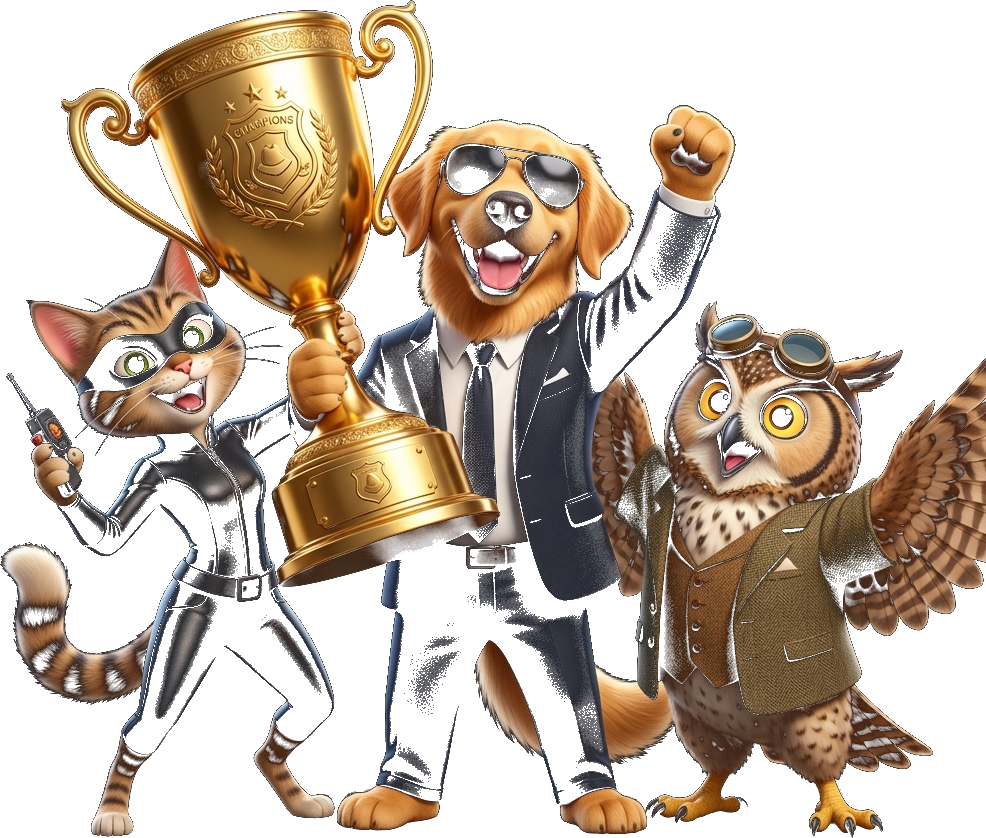
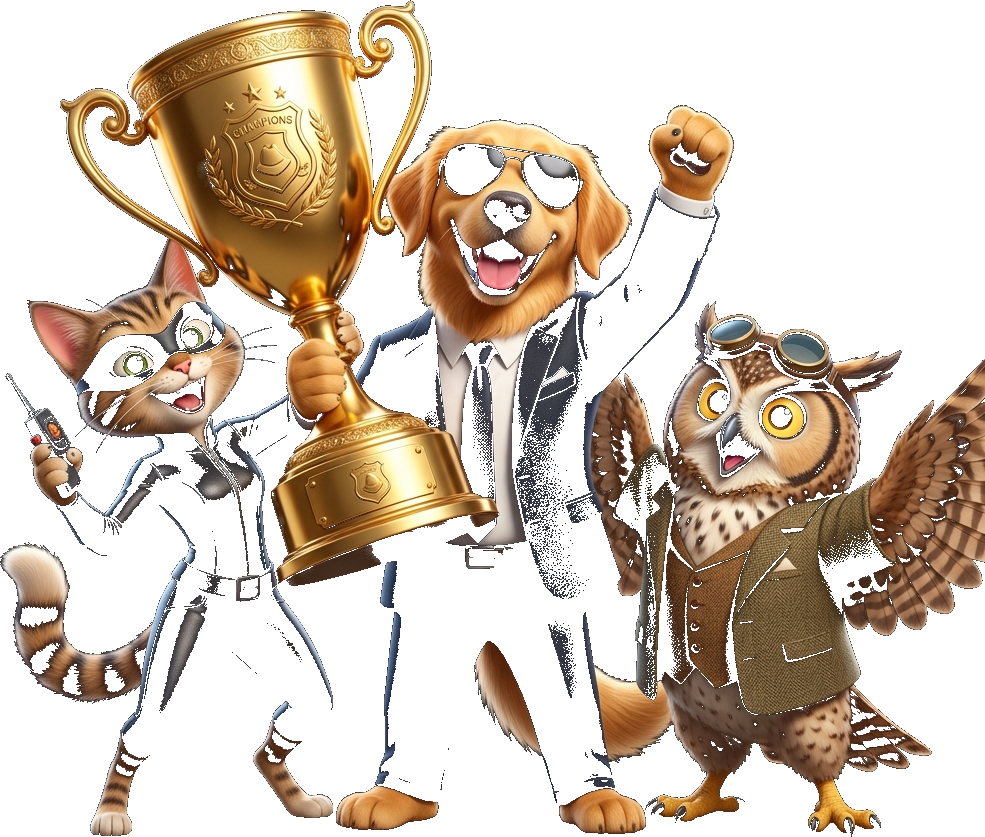
fix(ui): remove dark background square from victory image, remove scrollbar arrows, enlarge scoreboard table

diff --git a/src/components/Scoreboard.jsx b/src/components/Scoreboard.jsx
@@ -20,7 +20,7 @@ const Scoreboard = ({ players, winners, onReplay, onHome, onOpenSettings }) => {
     const winningColor = isCivilianWin ? 'text-spy-lime' : 'text-spy-orange';
 
     return (
-        <div className="min-h-screen min-h-[100dvh] flex flex-col items-center justify-between p-4 md:p-6 pt-16 md:pt-20 bg-transparent relative overflow-x-hidden max-w-md mx-auto">
+        <div className="min-h-screen min-h-[100dvh] flex flex-col items-center justify-between p-4 md:p-6 pt-14 md:pt-16 bg-transparent relative overflow-x-hidden max-w-xl mx-auto w-full">
             <SettingsGear onClick={onOpenSettings} />
 
             {/* Background Decor */}
@@ -31,57 +31,57 @@ const Scoreboard = ({ players, winners, onReplay, onHome, onOpenSettings }) => {
             <div className="z-10 w-full animate-pop-in flex flex-col flex-1 pb-4 overflow-hidden">
 
                 {/* 3D Cutout Victory / Defeat Hero Character */}
-                <div className="relative w-full h-48 flex items-center justify-center mb-1 flex-shrink-0">
-                    <div className={`absolute inset-4 rounded-full blur-2xl opacity-40 pointer-events-none ${
+                <div className="relative w-full h-56 flex items-center justify-center mb-1 flex-shrink-0">
+                    <div className={`absolute inset-4 rounded-full blur-3xl opacity-50 pointer-events-none ${
                         isCivilianWin ? 'bg-spy-lime' : 'bg-spy-orange'
                     }`} />
                     <img 
                         src={isCivilianWin ? '/victory_civilians_cutout_3d.png' : '/victory_impostors_cutout_3d.png'} 
                         alt={winningTeamText} 
-                        className="w-full h-full object-contain filter drop-shadow-[0_15px_25px_rgba(0,0,0,0.9)] z-10 transform hover:scale-105 transition-transform duration-300" 
+                        className="w-full h-full object-contain filter drop-shadow-[0_20px_30px_rgba(0,0,0,0.95)] z-10 transform hover:scale-105 transition-transform duration-300" 
                     />
                 </div>
 
                 {/* Header Title */}
                 <div className="text-center mb-4 flex-shrink-0">
-                    <h1 className="text-xl md:text-2xl font-black text-white uppercase tracking-tighter drop-shadow-lg mb-1">
-                        Victoire pour <span className={`${winningColor} text-2xl md:text-3xl font-black`}>{winningTeamText} !</span>
+                    <h1 className="text-2xl md:text-3xl font-black text-white uppercase tracking-tighter drop-shadow-lg mb-1">
+                        Victoire pour <span className={`${winningColor} text-3xl md:text-4xl font-black`}>{winningTeamText} !</span>
                     </h1>
-                    <div className="w-16 h-1 bg-spy-lime mx-auto rounded-full border border-black shadow-[1px_1px_0_#000]"></div>
+                    <div className="w-20 h-1.5 bg-spy-lime mx-auto rounded-full border border-black shadow-[1px_1px_0_#000]"></div>
                 </div>
 
-                {/* Scoreboard Scrollable List */}
-                <div className="card-cartoon p-3.5 flex-1 overflow-y-auto mb-4 bg-black/45 text-white border-3 border-black max-h-[340px] shadow-2xl">
-                    <h2 className="text-white/40 font-black uppercase tracking-widest text-[9.5px] text-center mb-3 sticky top-0 bg-black/80 backdrop-blur-md p-1.5 rounded-xl z-10 border border-white/10">
+                {/* Scoreboard Scrollable List - Sleek & Roomy */}
+                <div className="card-cartoon p-4 flex-1 overflow-y-auto mb-4 bg-black/60 backdrop-blur-md text-white border-3 border-black shadow-2xl max-h-[420px] custom-scrollbar">
+                    <h2 className="text-white/50 font-black uppercase tracking-[0.25em] text-[10px] text-center mb-3 sticky top-0 bg-slate-900/90 backdrop-blur-md p-2 rounded-xl z-10 border border-white/10 shadow-md">
                         Classement de la Mission
                     </h2>
 
-                    <div className="space-y-2.5">
+                    <div className="space-y-3">
                         {sortedPlayers.map((player, index) => {
                             const rawAvatar = typeof player.avatar === 'object' ? player.avatar?.value : player.avatar;
                             return (
                                 <div
                                     key={player.id}
-                                    className={`flex items-center justify-between rounded-2xl p-2.5 border-2 transition-all ${
-                                        index === 0 ? 'bg-gradient-to-r from-yellow-500/20 via-yellow-500/10 to-transparent border-yellow-500/60 shadow-[0_4px_12px_rgba(234,179,8,0.25)]' :
-                                        index === 1 ? 'bg-slate-300/10 border-slate-300/40' :
-                                        index === 2 ? 'bg-amber-600/10 border-amber-600/40' :
-                                        'bg-black/30 border-white/10'
+                                    className={`flex items-center justify-between rounded-2xl p-3 border-2 transition-all ${
+                                        index === 0 ? 'bg-gradient-to-r from-yellow-500/25 via-yellow-500/10 to-slate-900/80 border-yellow-500/70 shadow-[0_4px_16px_rgba(234,179,8,0.3)]' :
+                                        index === 1 ? 'bg-slate-800/80 border-slate-300/40' :
+                                        index === 2 ? 'bg-slate-800/80 border-amber-600/40' :
+                                        'bg-slate-900/60 border-white/10'
                                     }`}
                                 >
-                                    <div className="flex items-center gap-2.5 min-w-0">
-                                        <div className="w-6 h-6 flex items-center justify-center flex-shrink-0 font-black text-xs">
+                                    <div className="flex items-center gap-3 min-w-0">
+                                        <div className="w-7 h-7 flex items-center justify-center flex-shrink-0 font-black text-sm">
                                             {renderRankBadge(index)}
                                         </div>
-                                        <div className="w-9 h-9 flex-shrink-0">
+                                        <div className="w-10 h-10 flex-shrink-0">
                                             <CartoonAvatar id={rawAvatar} className="w-full h-full border-none shadow-none" />
                                         </div>
                                         <div className="flex flex-col text-left min-w-0 truncate">
-                                            <span className={`font-black text-xs uppercase tracking-wide truncate ${player.pseudoColor || (index === 0 ? 'text-yellow-400' : 'text-white')}`}>
+                                            <span className={`font-black text-sm uppercase tracking-wide truncate ${player.pseudoColor || (index === 0 ? 'text-yellow-400' : 'text-white')}`}>
                                                 {player.name}
                                             </span>
                                             {player.role && (
-                                                <span className={`text-[8.5px] font-black uppercase tracking-wider ${
+                                                <span className={`text-[9px] font-black uppercase tracking-wider ${
                                                     player.role === 'Civilian' ? 'text-spy-lime' :
                                                     player.role === 'Undercover' ? 'text-spy-orange' : 'text-cyan-400'
                                                 }`}>
@@ -91,11 +91,11 @@ const Scoreboard = ({ players, winners, onReplay, onHome, onOpenSettings }) => {
                                         </div>
                                     </div>
 
-                                    <div className="flex items-center gap-1 flex-shrink-0 pl-2">
-                                        <span className={`text-lg font-black font-display leading-none ${index === 0 ? 'text-yellow-400' : 'text-white'}`}>
+                                    <div className="flex items-center gap-1.5 flex-shrink-0 pl-3">
+                                        <span className={`text-xl font-black font-display leading-none ${index === 0 ? 'text-yellow-400' : 'text-white'}`}>
                                             {player.score || 0}
                                         </span>
-                                        <span className="text-[9px] text-white/50 font-black uppercase">pts</span>
+                                        <span className="text-[10px] text-white/60 font-black uppercase">pts</span>
                                     </div>
                                 </div>
                             );

diff --git a/src/index.css b/src/index.css
@@ -80,6 +80,33 @@
     }
 }
 
+/* Sleek Cartoon Custom Scrollbar - No default Windows arrows */
+::-webkit-scrollbar {
+    width: 6px;
+    height: 6px;
+}
+
+::-webkit-scrollbar-track {
+    background: rgba(0, 0, 0, 0.25);
+    border-radius: 9999px;
+}
+
+::-webkit-scrollbar-thumb {
+    background: rgba(255, 255, 255, 0.2);
+    border-radius: 9999px;
+    border: 1px solid rgba(255, 255, 255, 0.1);
+}
+
+::-webkit-scrollbar-thumb:hover {
+    background: rgba(204, 255, 0, 0.6);
+}
+
+::-webkit-scrollbar-button {
+    display: none !important;
+    width: 0 !important;
+    height: 0 !important;
+}
+
 html, body, #root {
     width: 100%;
     height: 100%;